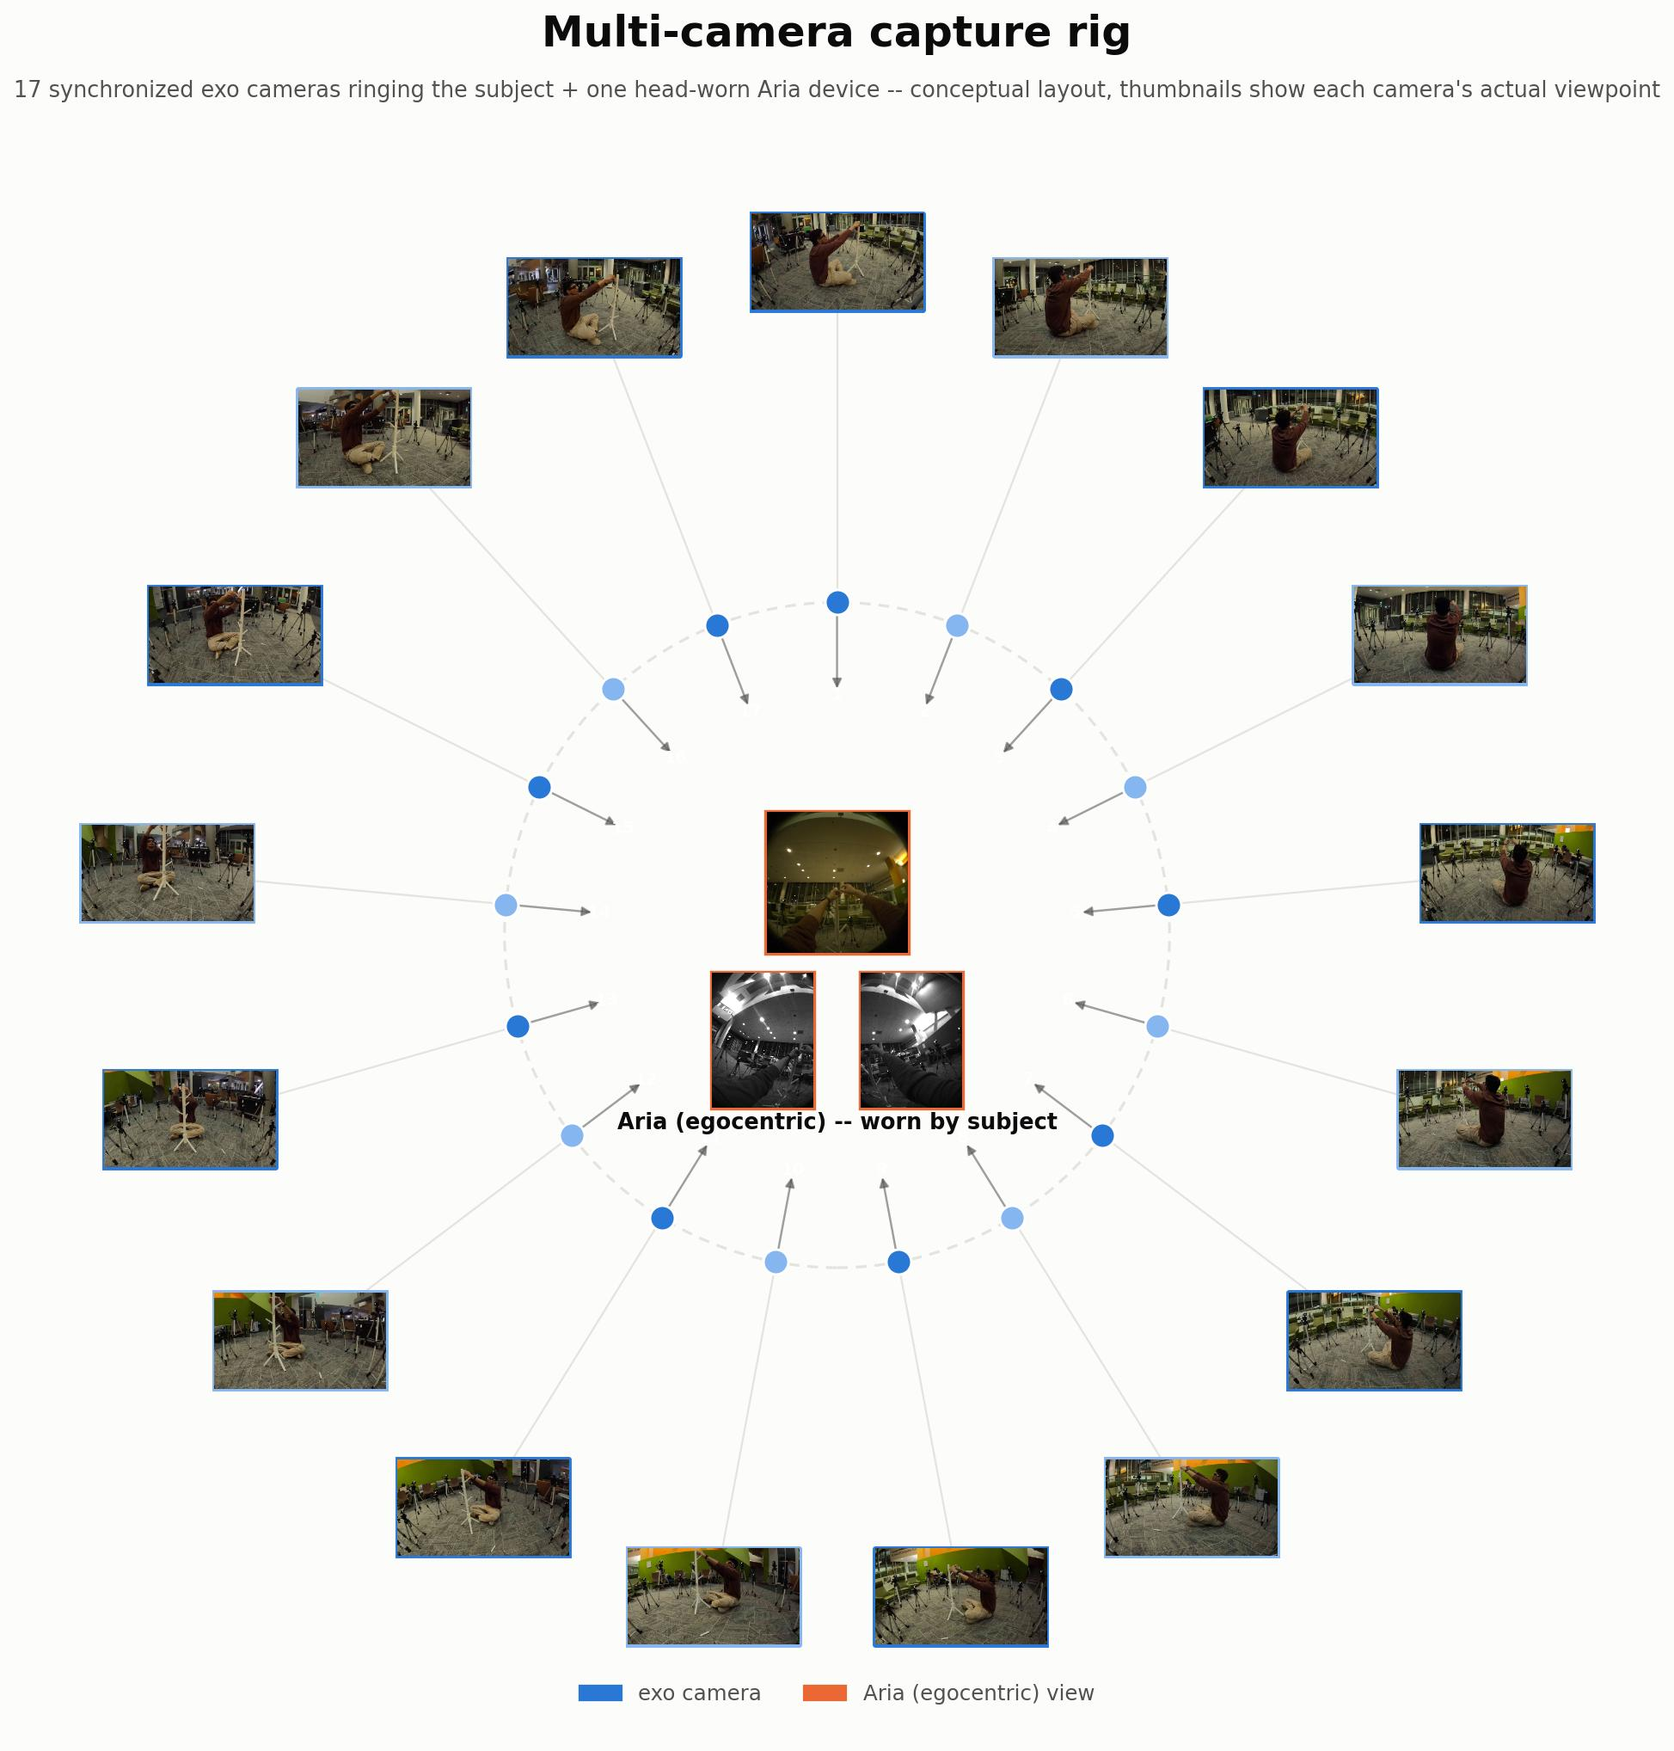
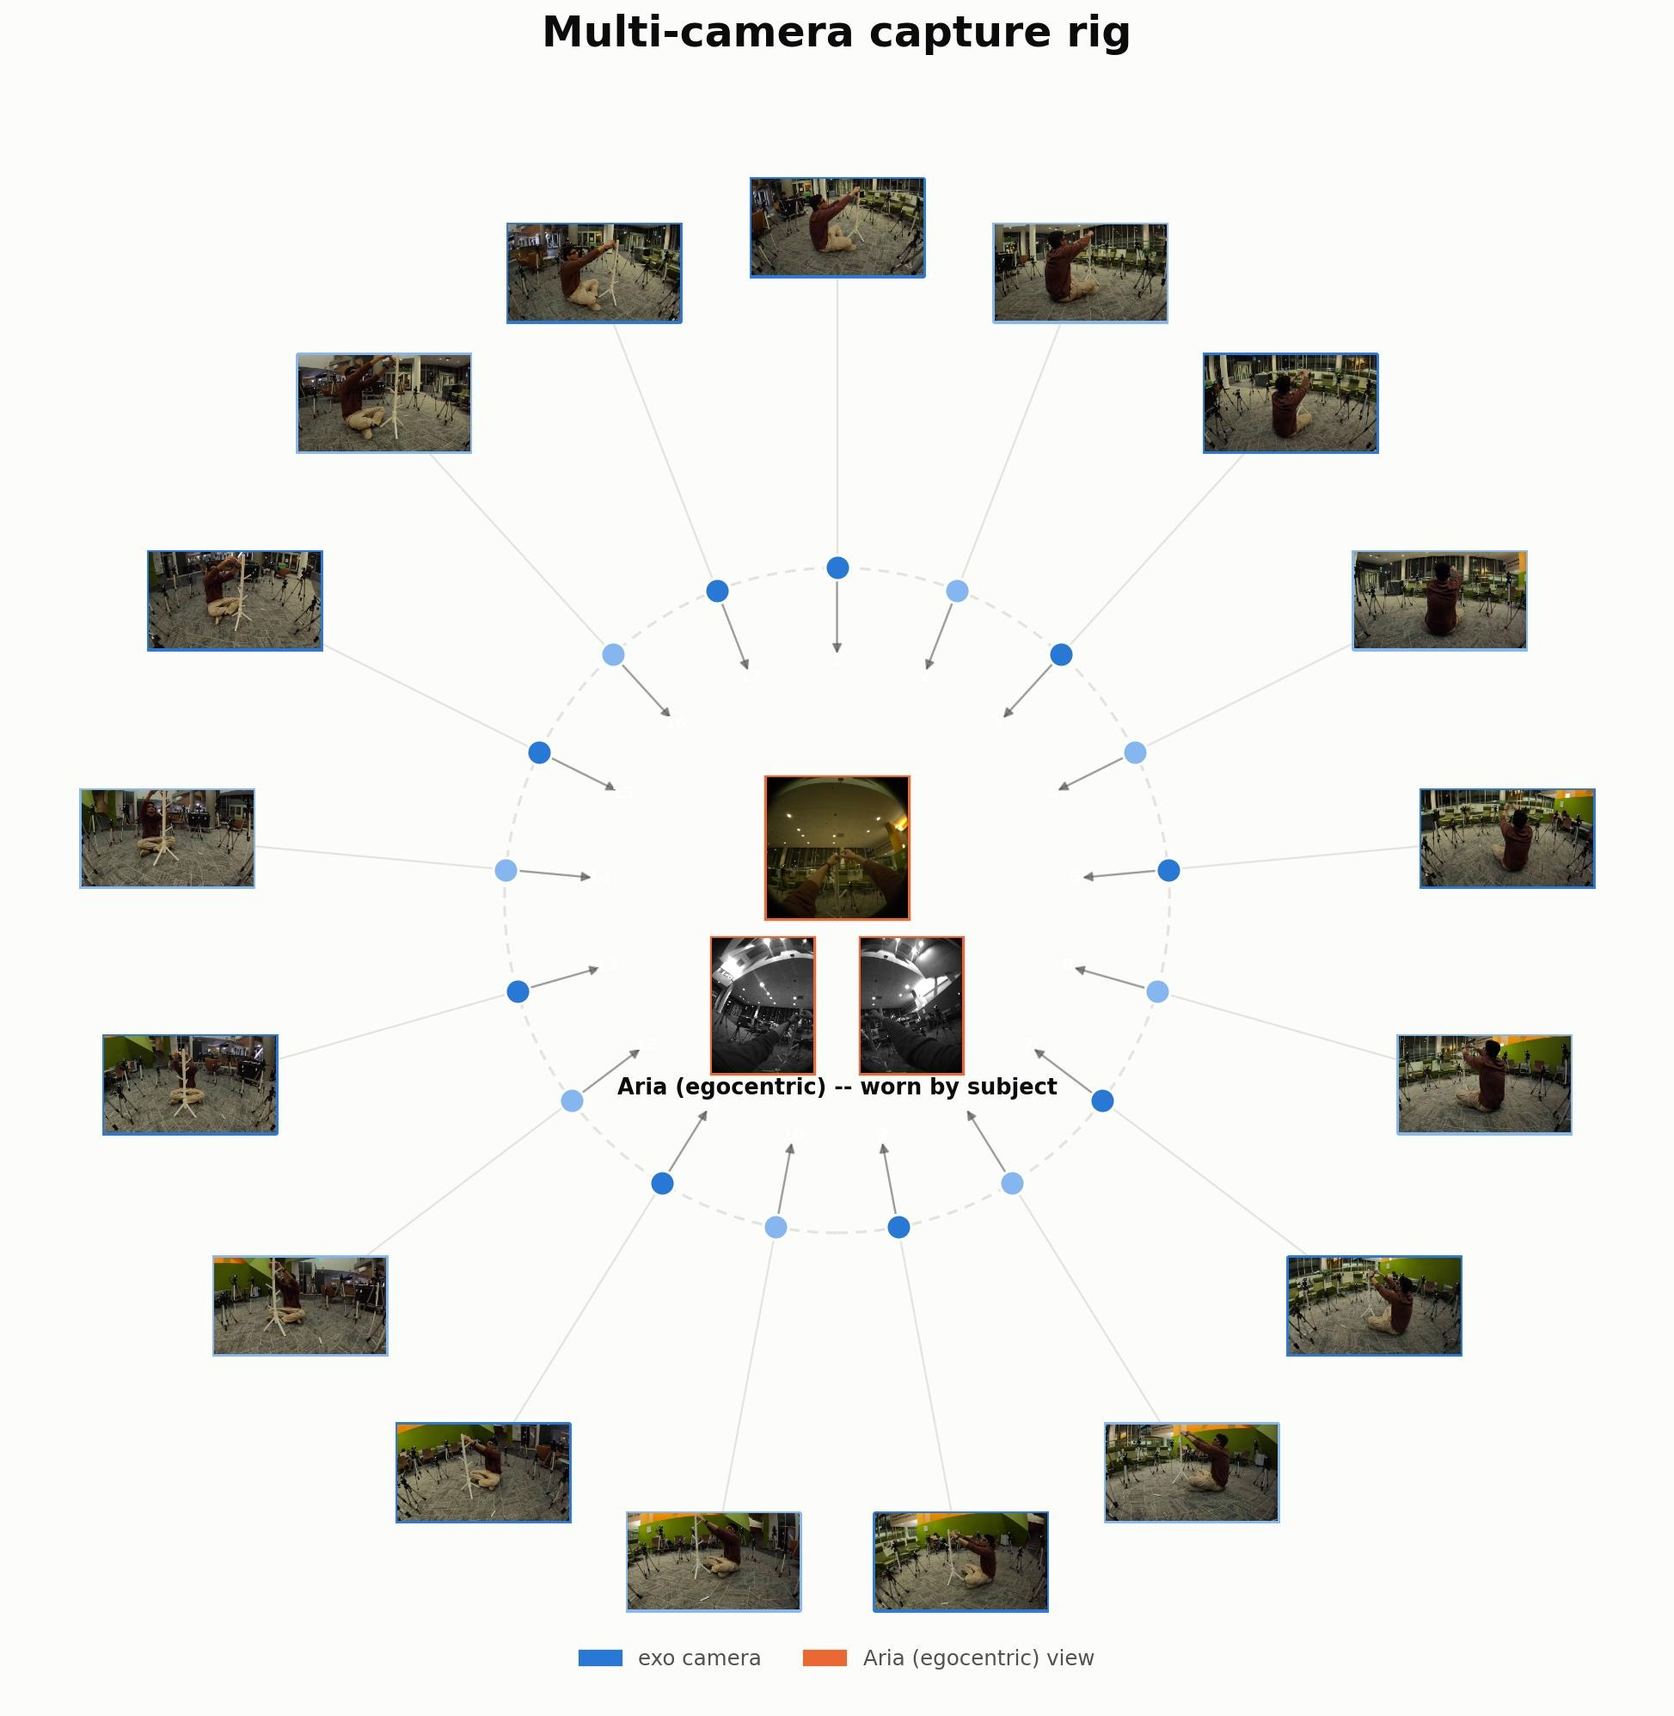
Revise dataset figures: drop redundant stats/figures, add zoom, fix card text overflow, move grid teaser to hero

diff --git a/index.html b/index.html
@@ -159,6 +159,9 @@
           <button type="button" class="teaser-toggle-btn is-active" data-target="teaser-video">
             <i class="fas fa-play-circle"></i> Video
           </button>
+          <button type="button" class="teaser-toggle-btn" data-target="teaser-grid">
+            <i class="fas fa-th"></i> All Sessions
+          </button>
           <button type="button" class="teaser-toggle-btn" data-target="teaser-figure">
             <i class="fas fa-image"></i> Figure
           </button>
@@ -169,6 +172,15 @@
           <div style="border:2px solid #3a9d6e; border-radius:8px; overflow:hidden; box-shadow:0 5px 15px rgba(0,0,0,0.18);">
             <video poster="" id="tree" autoplay playsinline controls muted loop height="100%" style="display:block;">
               <source src="static/images/teaser.mp4" type="video/mp4">
+            </video>
+          </div>
+        </div>
+
+        <!-- 30-session grid teaser video -->
+        <div class="teaser-content" id="teaser-grid">
+          <div style="border:2px solid #3a9d6e; border-radius:8px; overflow:hidden; box-shadow:0 5px 15px rgba(0,0,0,0.18);">
+            <video poster="" autoplay playsinline controls muted loop width="100%" style="display:block;">
+              <source src="static/images/videos/all_sessions_grid_teaser.mp4" type="video/mp4">
             </video>
           </div>
         </div>
@@ -209,22 +221,14 @@
     <div class="columns is-centered has-text-centered fade-in" style="margin-top:1rem;">
       <div class="column is-four-fifths">
         <img src="static/images/dataset_statistics.jpg" alt="Dataset statistics overview" style="max-width:100%; border-radius:8px; box-shadow:0 2px 12px rgba(0,0,0,0.06);">
-        <p class="subtitle is-6">34 capture sessions, 448 recorded sequences, 17&ndash;18 synchronized exo cameras per sequence, and 2.68M images in total &mdash; 347 sequences include ground-truth fingertip-contact annotations.</p>
+        <p class="subtitle is-6">34 capture sessions, 448 recorded sequences, 18 synchronized exo cameras per sequence, and 2.68M images in total, with per-frame camera, keypoint, and mesh annotations throughout.</p>
       </div>
     </div>
 
-    <div class="columns is-centered fade-in" style="margin-top:2rem;">
-      <div class="column has-text-centered">
-        <img src="static/images/camera_rig_schematic.jpg" alt="Multi-camera capture rig schematic" style="max-width:100%; border-radius:8px; box-shadow:0 2px 12px rgba(0,0,0,0.06);">
-        <p class="subtitle is-6">17 synchronized exo cameras ring each subject, plus one head-worn Aria egocentric device (RGB + stereo) at the center.</p>
-      </div>
-      <div class="column has-text-centered">
-        <img src="static/images/colmap_pointcloud.jpg" alt="COLMAP 3D point-cloud reconstruction" style="max-width:100%; border-radius:8px; box-shadow:0 2px 12px rgba(0,0,0,0.06);">
-        <p class="subtitle is-6">Structure-from-motion reconstruction recovering all 17 exo camera poses (blue) and the Aria device (orange) for one capture session.</p>
-      </div>
-      <div class="column has-text-centered">
-        <img src="static/images/finger_contact_usage.jpg" alt="Fingertip contact usage by finger" style="max-width:100%; border-radius:8px; box-shadow:0 2px 12px rgba(0,0,0,0.06);">
-        <p class="subtitle is-6">Fraction of annotated frames each fingertip is in contact, by hand, across all sequences with finger-contact labels.</p>
+    <div class="columns is-centered has-text-centered fade-in" style="margin-top:2rem;">
+      <div class="column is-four-fifths">
+        <img src="static/images/camera_rig_schematic.jpg" alt="Multi-camera capture rig schematic" class="zoomable-img" style="max-width:100%; border-radius:8px; box-shadow:0 2px 12px rgba(0,0,0,0.06);">
+        <p class="subtitle is-6">17 synchronized exo cameras ring each subject, plus one head-worn Aria egocentric device (RGB + stereo) at the center. Click to zoom in.</p>
       </div>
     </div>
   </div>
@@ -240,7 +244,7 @@
       <div class="columns is-centered has-text-centered fade-in" style="margin-top:1rem;">
         <div class="column is-four-fifths">
           <img src="static/images/diversity_gallery_30.jpg" alt="30-session diversity gallery" style="max-width:100%; border-radius:8px; box-shadow:0 2px 12px rgba(0,0,0,0.06);">
-          <p class="subtitle is-6">One frame from each of the 30 curated capture sessions &mdash; spanning distinct subjects, rooms, and furniture-assembly objects.</p>
+          <p class="subtitle is-6">Raw images from Contact4D &mdash; spanning distinct subjects, rooms, and furniture-assembly tasks.</p>
         </div>
       </div>
 
@@ -248,7 +252,7 @@
       <div class="columns is-centered has-text-centered fade-in" style="margin-top:2rem;">
         <div class="column is-four-fifths">
           <img src="static/images/annotation_types_strip.jpg" alt="Annotation types strip" style="max-width:100%; border-radius:8px; box-shadow:0 2px 12px rgba(0,0,0,0.06);">
-          <p class="subtitle is-6">The same frame annotated six ways: raw image, 2D body+hand keypoints, SMPL, SMPL-X, MANO, and per-fingertip contact state.</p>
+          <p class="subtitle is-6">Raw image, 2D body+hand keypoints, SMPL, SMPL-X, MANO, and per-fingertip contact state.</p>
         </div>
       </div>
 
@@ -260,93 +264,98 @@
         </div>
       </div>
 
-      <!-- 30-session grid teaser video -->
-      <div class="columns is-centered has-text-centered fade-in" style="margin-top:2rem;">
+      <!-- Pose + mesh carousel -->
+      <div class="columns is-centered has-text-centered fade-in" style="margin-top:2.5rem;">
         <div class="column is-four-fifths">
-          <h4 class="title is-4">30-Session Grid Teaser</h4>
+          <h4 class="title is-4">Pose + Mesh Examples</h4>
+        </div>
+      </div>
+      <div id="dataset-carousel" class="carousel" style="margin-top:1rem;">
+        <div class="item" style="padding: 0 0.5rem;">
           <div class="videobox">
             <video preload="none" playsinline controls muted loop width="100%">
-              <source src="static/images/videos/all_sessions_grid_teaser.mp4" type="video/mp4">
+              <source src="static/images/videos/session_03_panel.mp4" type="video/mp4">
             </video>
           </div>
-          <p class="subtitle is-6">All 30 curated sessions side by side, cycling through raw &rarr; 2D keypoints &rarr; SMPL &rarr; MANO &rarr; SMPL-X.</p>
+          <p class="hand-description">
+            <span style="color:#3a9d6e">session_03</span>, exo cam05.<br>
+            Three panels side by side: raw image, 2D body+hand keypoints, and the fitted SMPL-X + MANO mesh.
+          </p>
+        </div>
+        <div class="item" style="padding: 0 0.5rem;">
+          <div class="videobox">
+            <video preload="none" playsinline controls muted loop width="100%">
+              <source src="static/images/videos/session_06_panel.mp4" type="video/mp4">
+            </video>
+          </div>
+          <p class="hand-description">
+            <span style="color:#3a9d6e">session_06</span>, exo cam05.<br>
+            Three panels side by side: raw image, 2D body+hand keypoints, and the fitted SMPL-X + MANO mesh.
+          </p>
+        </div>
+        <div class="item" style="padding: 0 0.5rem;">
+          <div class="videobox">
+            <video preload="none" playsinline controls muted loop width="100%">
+              <source src="static/images/videos/session_10_panel.mp4" type="video/mp4">
+            </video>
+          </div>
+          <p class="hand-description">
+            <span style="color:#3a9d6e">session_10</span>, exo cam05.<br>
+            Three panels side by side: raw image, 2D body+hand keypoints, and the fitted SMPL-X + MANO mesh.
+          </p>
+        </div>
+        <div class="item" style="padding: 0 0.5rem;">
+          <div class="videobox">
+            <video preload="none" playsinline controls muted loop width="100%">
+              <source src="static/images/videos/session_10_ego_panel.mp4" type="video/mp4">
+            </video>
+          </div>
+          <p class="hand-description">
+            <span style="color:#3a9d6e">session_10</span>, Aria egocentric view.<br>
+            Two panels: the raw egocentric stream and the fitted SMPL-X + MANO mesh rendered on the undistorted image.
+          </p>
         </div>
       </div>
 
-      <!-- Pose+mesh / finger-contact video tabs -->
-      <div class="columns is-centered fade-in" style="margin-top:2.5rem;">
-        <div class="column is-full has-text-centered">
-          <div class="task-tabs">
-            <button class="task-tab is-active" data-target="panel-pose-mesh">Pose + Mesh</button>
-            <button class="task-tab" data-target="panel-finger-contact">Finger Contact</button>
+      <!-- Finger contact carousel -->
+      <div class="columns is-centered has-text-centered fade-in" style="margin-top:2.5rem;">
+        <div class="column is-four-fifths">
+          <h4 class="title is-4">Finger Contact Examples</h4>
+        </div>
+      </div>
+      <div id="mocap-carousel" class="carousel" style="margin-top:1rem;">
+        <div class="item" style="padding: 0 0.5rem;">
+          <div class="videobox">
+            <video preload="none" playsinline controls muted loop width="100%">
+              <source src="static/images/videos/session_06_finger_contact.mp4" type="video/mp4">
+            </video>
           </div>
-          <div class="task-panels">
-
-            <div class="task-panel is-active" id="panel-pose-mesh">
-              <div class="videobox">
-                <video preload="none" playsinline controls muted loop width="100%">
-                  <source src="static/images/videos/session_03_panel.mp4" type="video/mp4">
-                </video>
-              </div>
-              <p class="subtitle is-6">session_03, exo cam05 &mdash; Raw | 2D keypoints | SMPL-X + MANO mesh.</p>
-
-              <div class="videobox" style="margin-top:1rem;">
-                <video preload="none" playsinline controls muted loop width="100%">
-                  <source src="static/images/videos/session_06_panel.mp4" type="video/mp4">
-                </video>
-              </div>
-              <p class="subtitle is-6">session_06, exo cam05 &mdash; Raw | 2D keypoints | SMPL-X + MANO mesh.</p>
-
-              <div class="videobox" style="margin-top:1rem;">
-                <video preload="none" playsinline controls muted loop width="100%">
-                  <source src="static/images/videos/session_10_panel.mp4" type="video/mp4">
-                </video>
-              </div>
-              <p class="subtitle is-6">session_10, exo cam05 &mdash; Raw | 2D keypoints | SMPL-X + MANO mesh.</p>
-
-              <div class="columns is-centered" style="margin-top:1rem;">
-                <div class="column is-half">
-                  <div class="videobox">
-                    <video preload="none" playsinline controls muted loop width="100%">
-                      <source src="static/images/videos/session_10_ego_panel.mp4" type="video/mp4">
-                    </video>
-                  </div>
-                  <p class="subtitle is-6">session_10, Aria egocentric &mdash; Raw | SMPL-X + MANO mesh.</p>
-                </div>
-              </div>
-            </div>
-
-            <div class="task-panel" id="panel-finger-contact">
-              <div class="columns">
-                <div class="column">
-                  <div class="videobox">
-                    <video preload="none" playsinline controls muted loop width="100%">
-                      <source src="static/images/videos/session_06_finger_contact.mp4" type="video/mp4">
-                    </video>
-                  </div>
-                  <p class="subtitle is-6">session_06</p>
-                </div>
-                <div class="column">
-                  <div class="videobox">
-                    <video preload="none" playsinline controls muted loop width="100%">
-                      <source src="static/images/videos/session_10_finger_contact.mp4" type="video/mp4">
-                    </video>
-                  </div>
-                  <p class="subtitle is-6">session_10</p>
-                </div>
-                <div class="column">
-                  <div class="videobox">
-                    <video preload="none" playsinline controls muted loop width="100%">
-                      <source src="static/images/videos/session_17_finger_contact.mp4" type="video/mp4">
-                    </video>
-                  </div>
-                  <p class="subtitle is-6">session_17</p>
-                </div>
-              </div>
-              <p class="subtitle is-6">Per-fingertip contact state overlaid live on the hand skeleton (green = in contact, red = not).</p>
-            </div>
-
+          <p class="hand-description">
+            <span style="color:#3a9d6e">session_06</span>, exo cam05.<br>
+            Per-fingertip contact state overlaid live on the hand skeleton: <span style="color:#2e8b45">green</span> = in contact, <span style="color:#c0392b">red</span> = not.
+          </p>
+        </div>
+        <div class="item" style="padding: 0 0.5rem;">
+          <div class="videobox">
+            <video preload="none" playsinline controls muted loop width="100%">
+              <source src="static/images/videos/session_10_finger_contact.mp4" type="video/mp4">
+            </video>
           </div>
+          <p class="hand-description">
+            <span style="color:#3a9d6e">session_10</span>, exo cam05.<br>
+            Per-fingertip contact state overlaid live on the hand skeleton: <span style="color:#2e8b45">green</span> = in contact, <span style="color:#c0392b">red</span> = not.
+          </p>
+        </div>
+        <div class="item" style="padding: 0 0.5rem;">
+          <div class="videobox">
+            <video preload="none" playsinline controls muted loop width="100%">
+              <source src="static/images/videos/session_17_finger_contact.mp4" type="video/mp4">
+            </video>
+          </div>
+          <p class="hand-description">
+            <span style="color:#3a9d6e">session_17</span>, exo cam05.<br>
+            Per-fingertip contact state overlaid live on the hand skeleton: <span style="color:#2e8b45">green</span> = in contact, <span style="color:#c0392b">red</span> = not.
+          </p>
         </div>
       </div>
     </div>
@@ -388,6 +397,11 @@
     <button class="back-to-top" id="backToTop" aria-label="Back to top">
       <i class="fas fa-chevron-up"></i>
     </button>
+
+    <div class="lightbox-overlay" id="lightbox">
+      <span class="lightbox-close" id="lightboxClose">&times;</span>
+      <img id="lightboxImg" src="" alt="Zoomed figure">
+    </div>
 
     <footer class="footer">
       <div class="container">
@@ -560,6 +574,24 @@
         });
       }
     });
+  });
+
+  // Image zoom lightbox
+  const lightbox = document.getElementById('lightbox');
+  const lightboxImg = document.getElementById('lightboxImg');
+  function closeLightbox() {
+    lightbox.classList.remove('is-active');
+    lightboxImg.src = '';
+  }
+  document.querySelectorAll('.zoomable-img').forEach(img => {
+    img.addEventListener('click', () => {
+      lightboxImg.src = img.src;
+      lightbox.classList.add('is-active');
+    });
+  });
+  lightbox.addEventListener('click', closeLightbox);
+  document.addEventListener('keydown', (e) => {
+    if (e.key === 'Escape') closeLightbox();
   });
 
   // Back-to-top button

diff --git a/static/css/index.css b/static/css/index.css
@@ -698,6 +698,59 @@ body {
   display: block !important;
 }
 
+/* ── Zoomable figures ── */
+.zoomable-img {
+  cursor: zoom-in;
+  transition: opacity 0.2s ease;
+}
+
+.zoomable-img:hover {
+  opacity: 0.92;
+}
+
+.lightbox-overlay {
+  position: fixed;
+  inset: 0;
+  background: rgba(10, 10, 10, 0.88);
+  display: flex;
+  align-items: center;
+  justify-content: center;
+  z-index: 10000;
+  opacity: 0;
+  pointer-events: none;
+  transition: opacity 0.2s ease;
+  padding: 2rem;
+}
+
+.lightbox-overlay.is-active {
+  opacity: 1;
+  pointer-events: auto;
+}
+
+.lightbox-overlay img {
+  max-width: 95vw;
+  max-height: 95vh;
+  border-radius: 6px;
+  box-shadow: 0 10px 40px rgba(0, 0, 0, 0.5);
+  cursor: zoom-out;
+}
+
+.lightbox-close {
+  position: absolute;
+  top: 1.2rem;
+  right: 1.5rem;
+  color: #fff;
+  font-size: 2.2rem;
+  cursor: pointer;
+  line-height: 1;
+  opacity: 0.85;
+  transition: opacity 0.2s;
+}
+
+.lightbox-close:hover {
+  opacity: 1;
+}
+
 /* ── Teaser toggle ── */
 .teaser-wrapper,
 .scaling-wrapper {
